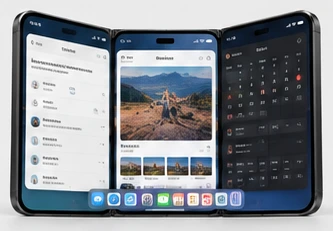
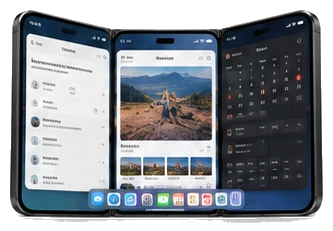
Dark feature cards, new hero, footer and nav tweaks
The four feature cards were glaring white in dark mode because the crops
carried their light grey backgrounds. Cut those out to transparency, so
--shot can follow the theme (#eaeaea light, #1c1c1e dark) along with its
text colours.

New in-hand hero. Its backdrop is dark slate rather than white, so the same
flood fill needed a hue guard: the backdrop is blue-dominant and skin is
red-dominant, and without that check the shadowed hands were being eaten
along with the background.

Footer note widened to 82ch plus text-wrap: pretty, so the last word no
longer drops to its own line on wide screens. Removed the fine-print link
from the nav; the section and its anchor stay.

Claude-Session: https://claude.ai/code/session_01QRcQGPuDr2s9MmL9obMsbj

Changed region(s): [[0.0, 0.8788, 1.0, 1.0], [0.9009, 0.0303, 0.9309, 0.0606], [0.6607, 0.0909, 0.6907, 0.1212]]

diff --git a/iphonetrio-com/index.html b/iphonetrio-com/index.html
@@ -88,8 +88,8 @@
     --band-ink: #f5f5f7;
     --band-sub: #a1a1a6;
     --blue: #0066cc;
-    /* Product-shot surfaces stay light in both themes: the crops are dark
-       phones on #eaeaea, which would disappear on a dark card. */
+    /* Card surface for the product shots. The crops have transparent
+       backgrounds, so this follows the theme. */
     --shot: #eaeaea;
     --shot-ink: #1d1d1f;
     --shot-sub: #6e6e73;
@@ -109,6 +109,9 @@
       --band-ink: #f5f5f7;
       --band-sub: #a1a1a6;
       --blue: #2997ff;
+      --shot: #1c1c1e;
+      --shot-ink: #f5f5f7;
+      --shot-sub: #a1a1a6;
     }
   }
   :root[data-theme="dark"] {
@@ -123,6 +126,9 @@
     --band-ink: #f5f5f7;
     --band-sub: #a1a1a6;
     --blue: #2997ff;
+    --shot: #1c1c1e;
+    --shot-ink: #f5f5f7;
+    --shot-sub: #a1a1a6;
   }
 
   * { box-sizing: border-box; }
@@ -192,7 +198,7 @@
   .kicker { color: var(--sub); font-size: 1.0625rem; margin: 0 0 2rem; }
   .hero figure { margin: 0; }
   /* The hands bleed off the bottom of the shot, so sit it flush on the edge. */
-  .hero img { margin: 0 auto; max-width: 1024px; width: 100%; margin-bottom: -4px; }
+  .hero img { margin: 0 auto; max-width: 1256px; width: 100%; margin-bottom: -4px; }
 
   /* ---------- spec band ---------- */
   .specs { background: var(--band-bg); color: var(--band-ink); padding: 4rem 0; }
@@ -246,7 +252,8 @@
   footer { background: var(--bg-alt); border-top: 1px solid var(--line); padding: 2.5rem 0 3.5rem; }
   .disclaimer {
     color: var(--sub); font-size: .75rem; line-height: 1.6;
-    margin: 0 auto 1.25rem; max-width: 70ch; text-align: center;
+    margin: 0 auto 1.25rem; max-width: 82ch; text-align: center;
+    text-wrap: pretty;  /* avoids a single-word last line */
   }
   .disclaimer strong { color: var(--ink); }
   .footer-row {
@@ -313,7 +320,6 @@
     <span class="wordmark">iPhone Trio</span>
     <span class="badge">Parody</span>
     <span class="spacer"></span>
-    <a href="#fine">The fine print</a>
     <button type="button" class="theme-toggle" id="theme-toggle" aria-label="Switch between light and dark">
       <svg class="sun" viewBox="0 0 24 24" aria-hidden="true"><path d="M12 17a5 5 0 1 1 0-10 5 5 0 0 1 0 10zm0-14a1 1 0 0 1 1 1v1.5a1 1 0 0 1-2 0V4a1 1 0 0 1 1-1zm0 16a1 1 0 0 1 1 1v1.5a1 1 0 0 1-2 0V20a1 1 0 0 1 1-1zM3 12a1 1 0 0 1 1-1h1.5a1 1 0 0 1 0 2H4a1 1 0 0 1-1-1zm15.5 0a1 1 0 0 1 1-1H21a1 1 0 0 1 0 2h-1.5a1 1 0 0 1-1-1zM5.6 5.6a1 1 0 0 1 1.4 0l1 1a1 1 0 0 1-1.4 1.4l-1-1a1 1 0 0 1 0-1.4zm10.4 10.4a1 1 0 0 1 1.4 0l1 1a1 1 0 0 1-1.4 1.4l-1-1a1 1 0 0 1 0-1.4zm2.4-10.4a1 1 0 0 1 0 1.4l-1 1A1 1 0 0 1 16 6.6l1-1a1 1 0 0 1 1.4 0zM8 16a1 1 0 0 1 0 1.4l-1 1a1 1 0 0 1-1.4-1.4l1-1a1 1 0 0 1 1.4 0z"/></svg>
       <svg class="moon" viewBox="0 0 24 24" aria-hidden="true"><path d="M21 13.2A9 9 0 1 1 10.8 3a7 7 0 0 0 10.2 10.2z"/></svg>
@@ -329,7 +335,7 @@
     <p class="kicker">Because two folds was clearly not enough.</p>
   </div>
   <figure>
-    <img src="img/hero-hands.webp" width="1024" height="678" fetchpriority="high"
+    <img src="img/hero-hands.webp" width="1256" height="832" fetchpriority="high"
          alt="Two hands holding a phone with three display panels unfolded, showing a home screen, maps and widgets across all three">
   </figure>
 </header>
